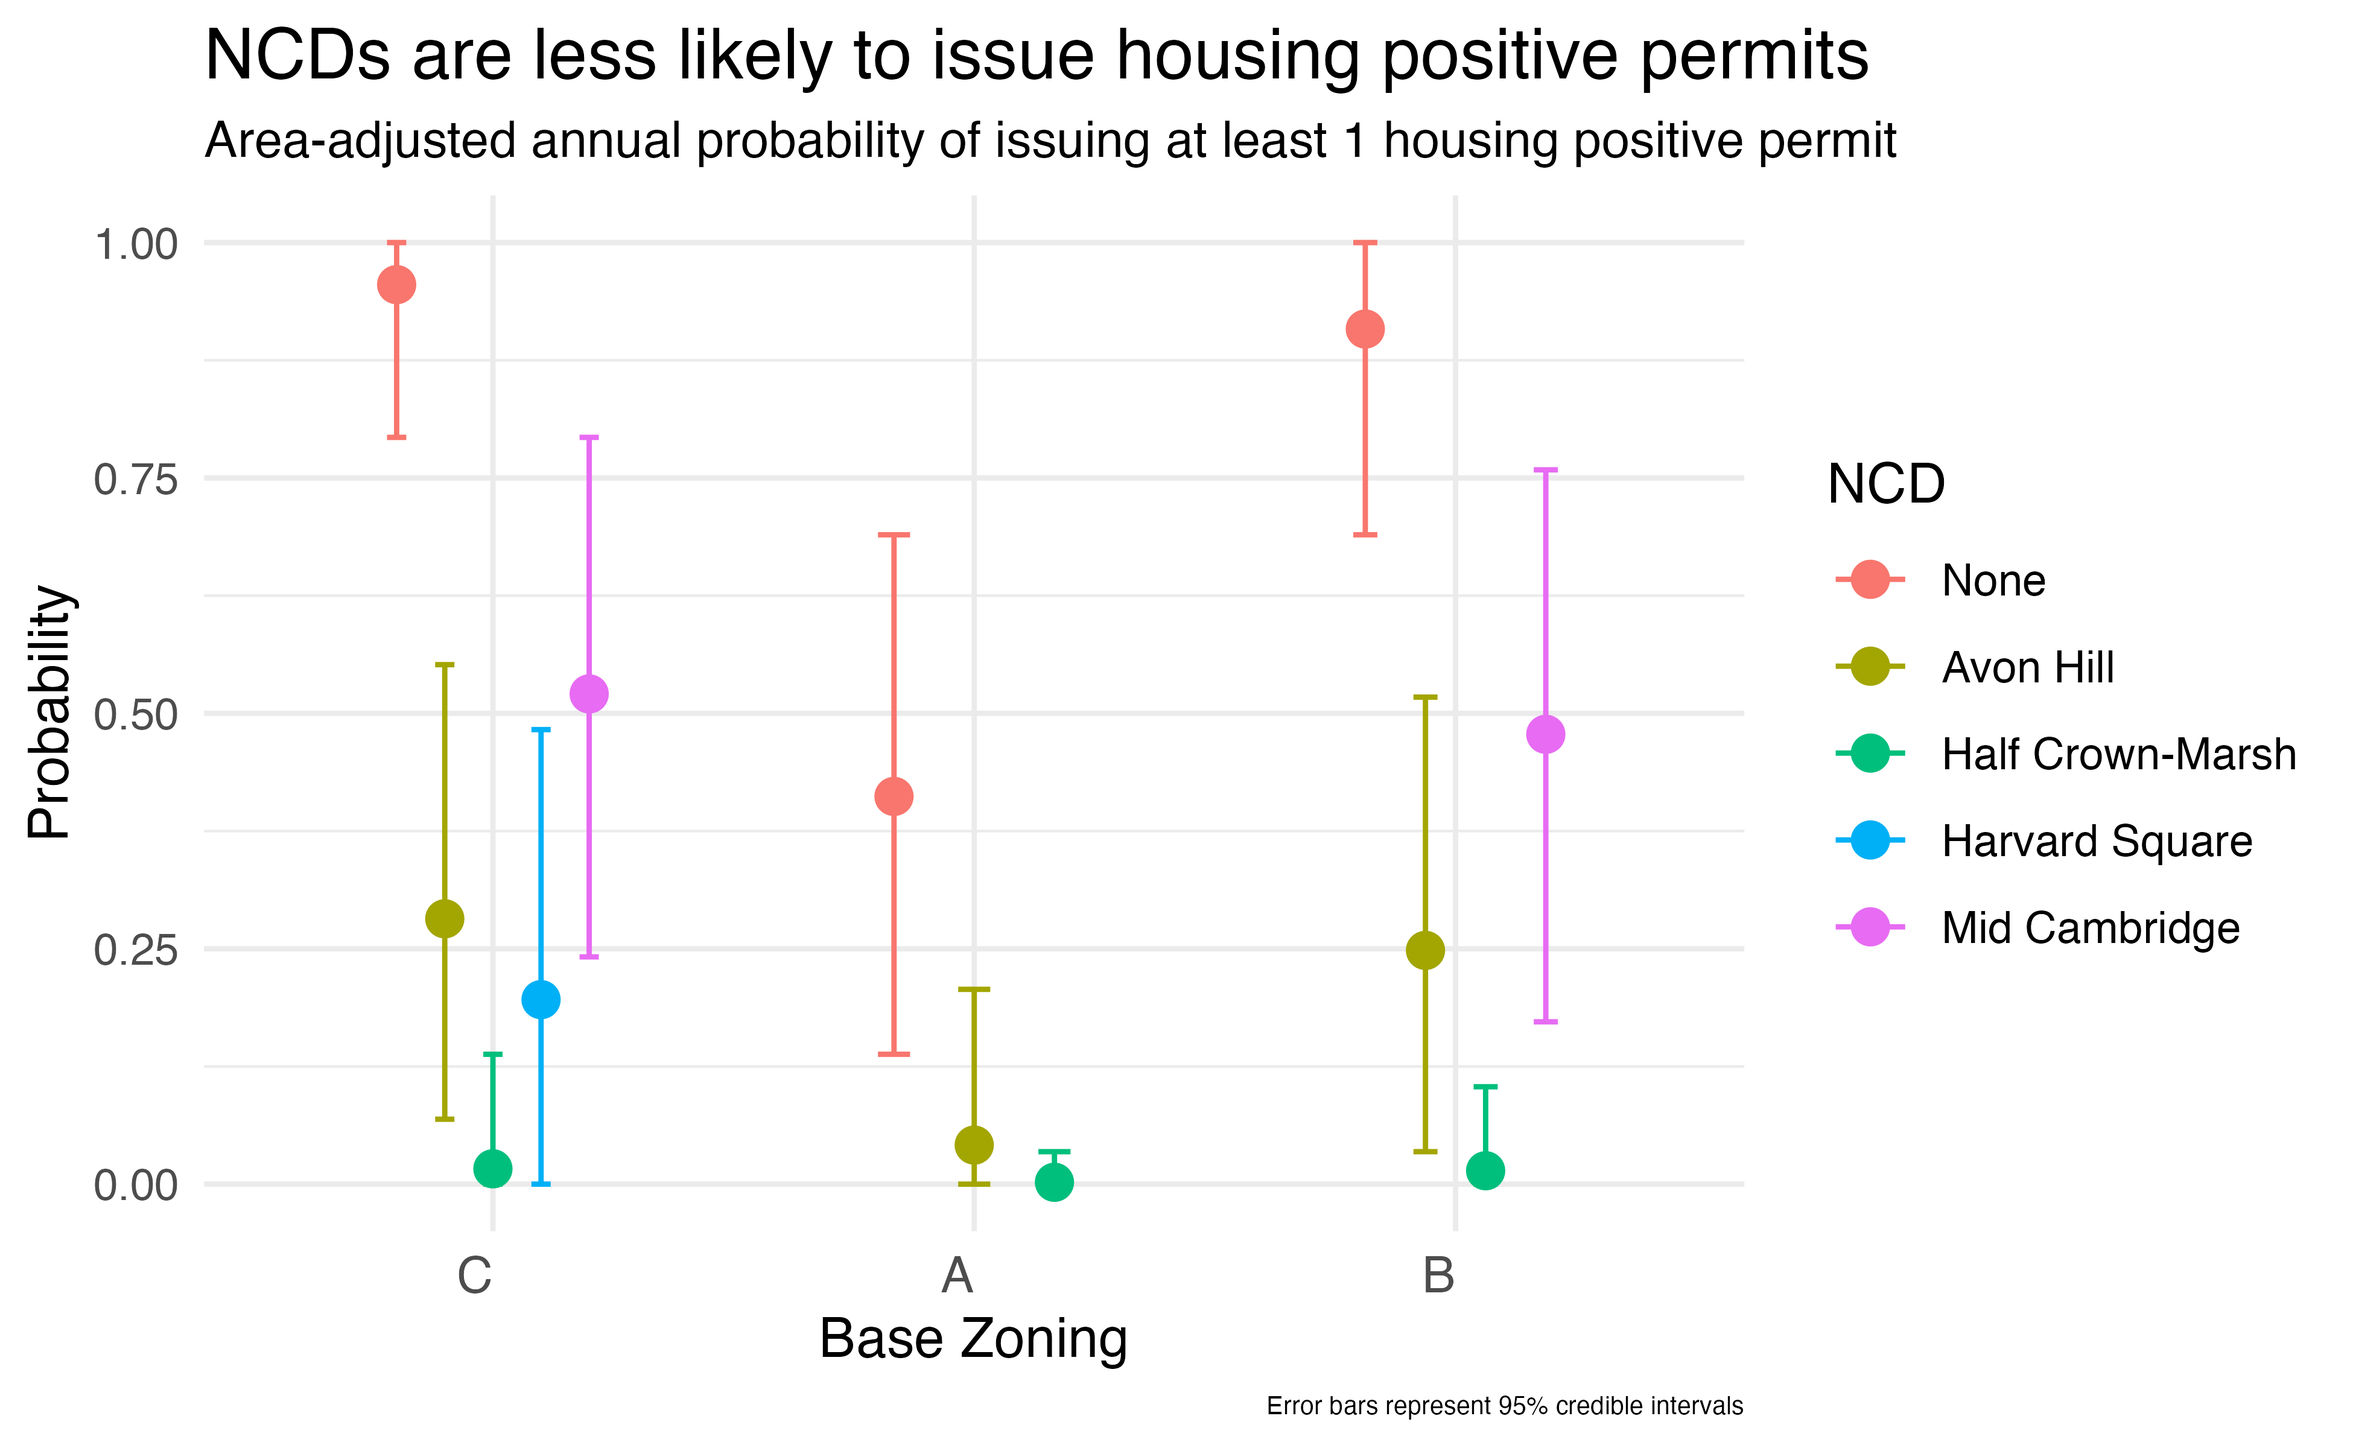
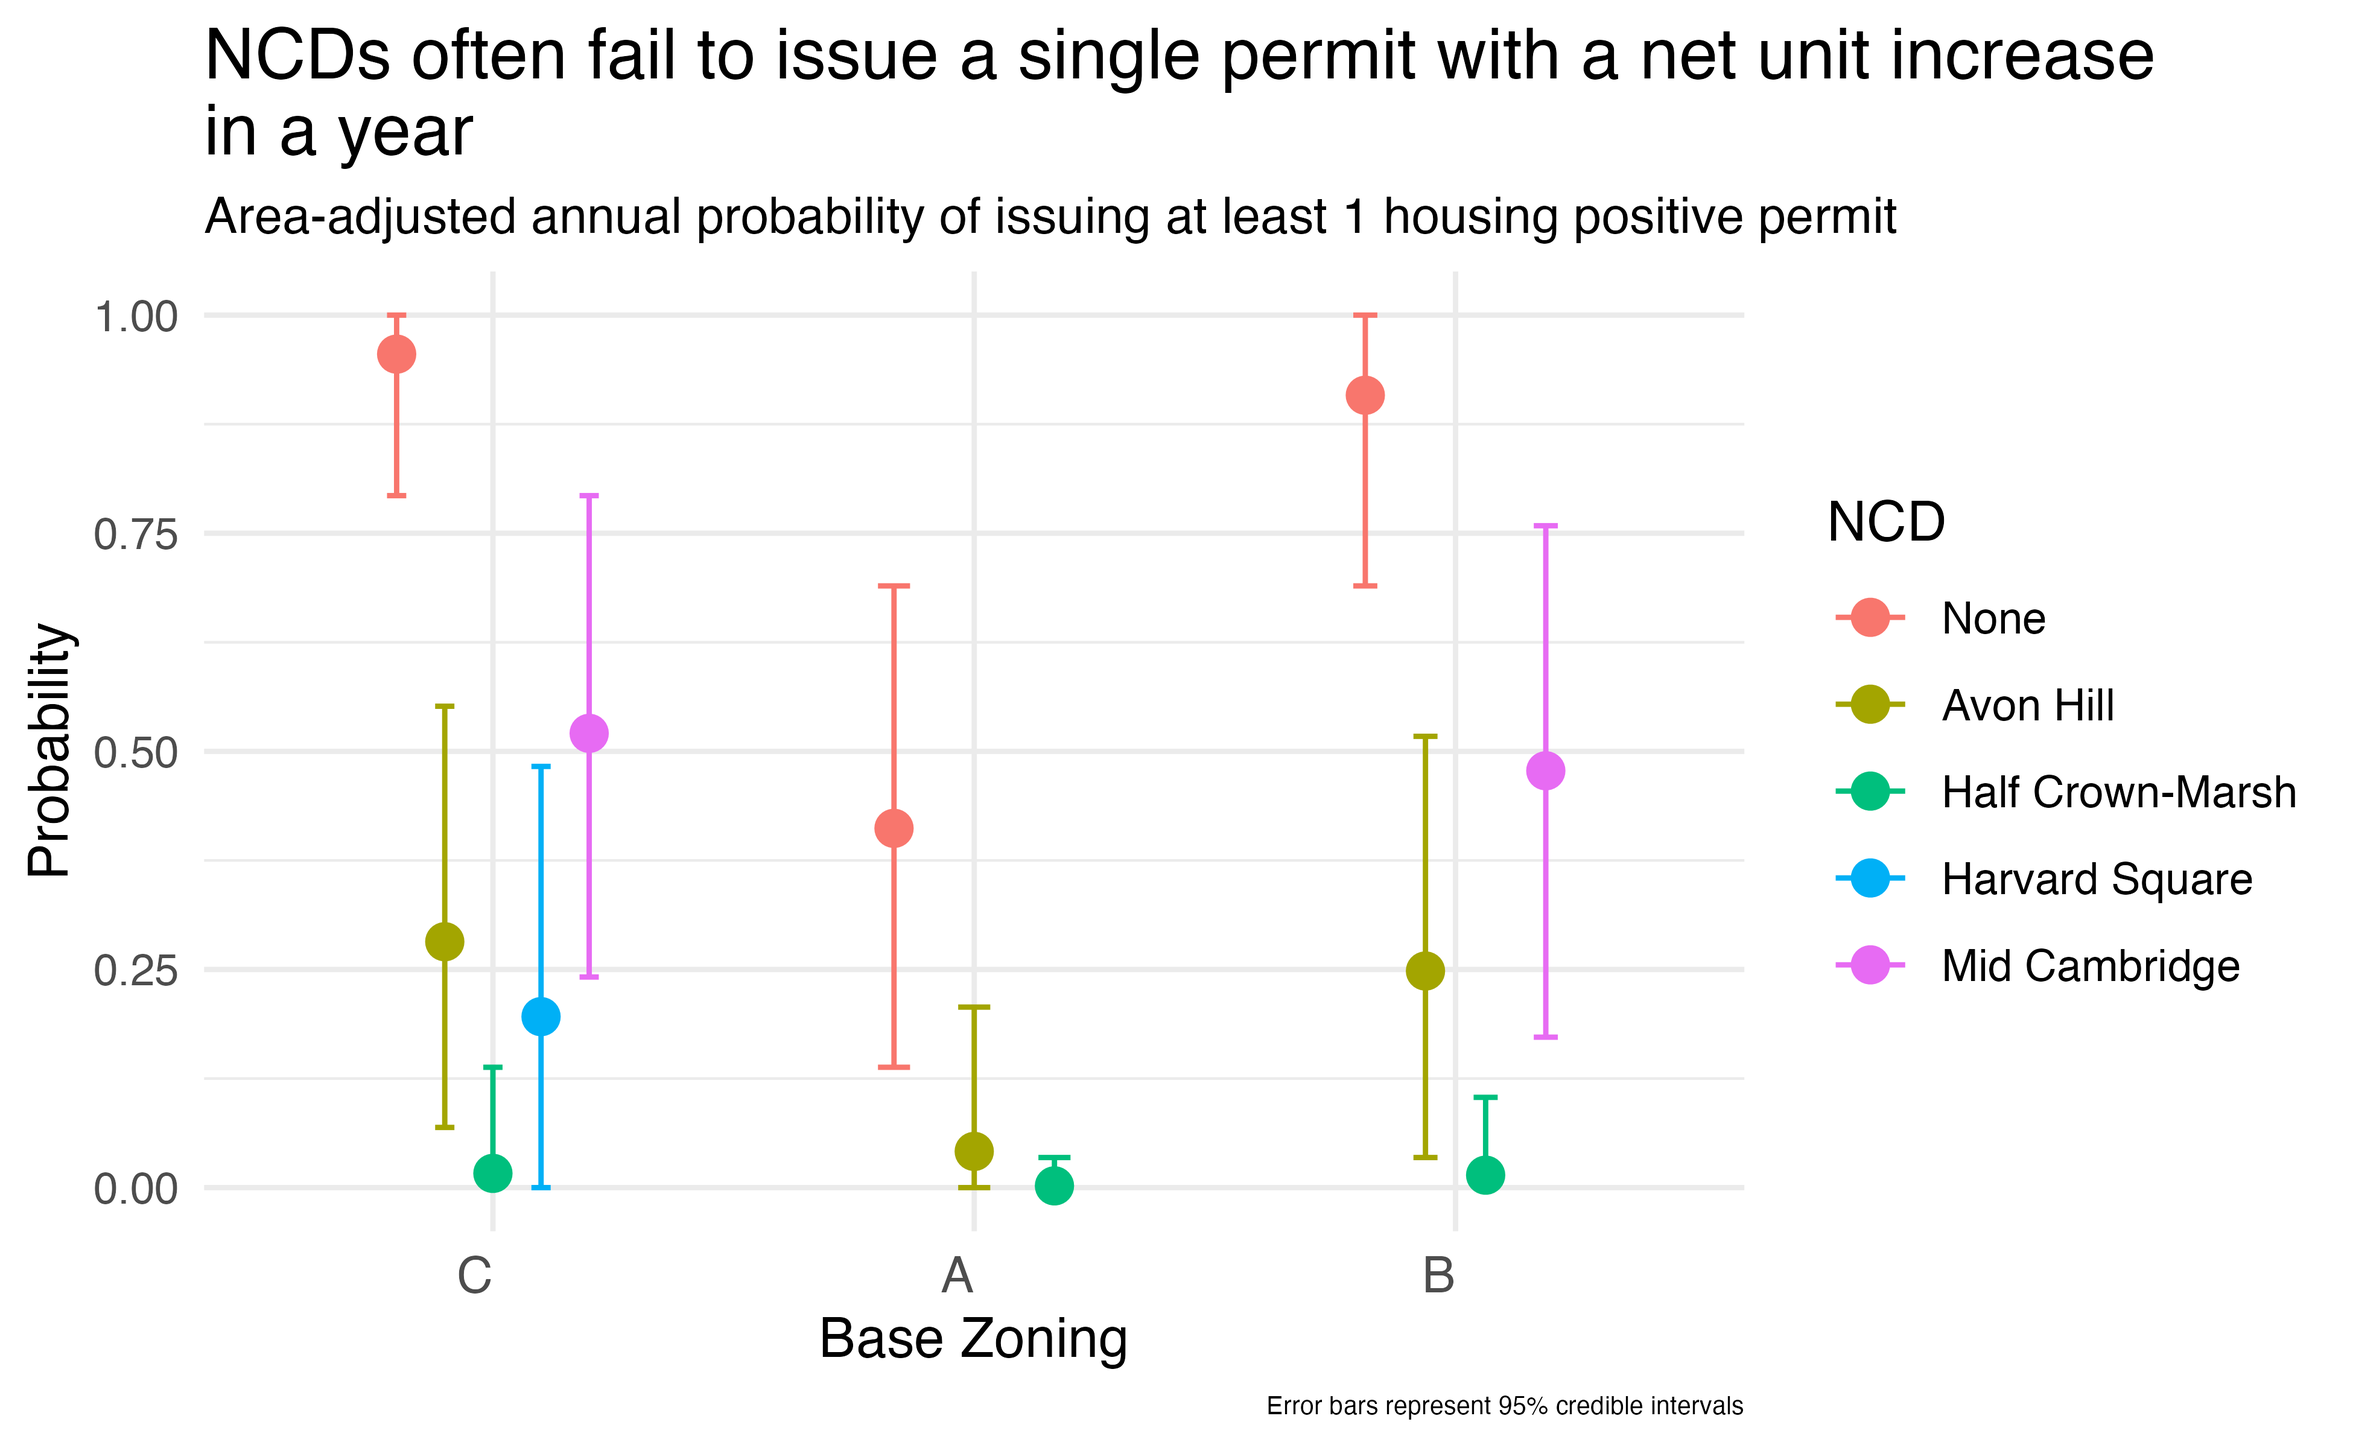
remove julia

diff --git a/_site/2025/03/30/ncd.html b/_site/2025/03/30/ncd.html
@@ -9,8 +9,8 @@
 <meta name="generator" content="Jekyll v3.10.0" />
 <meta property="og:title" content="Neighborhood Conservation Districts Suppress Housing in Cambridge, MA" />
 <meta property="og:locale" content="en_US" />
-<meta name="description" content="Cambridge is a small city immediately adjacent to Boston Massachusetts with one of the worst housing crises in the country. Despite this, the city has done remarkably little to address the problem. Inside the city’s “residential districts”, from 1996 to 2024, the city constructed a cumulative 1,848 housing units over 29 years, which amounts to 0.06 housing units per 100 residents per year. Notably, Cambridge has found a way to build most of its residences in non-residential districts. Of the total 14,216 net residences constructed from 1996, 12,368 of them were constructed in non-residential areas of the city. Annual housing production per sqkm is shown in Fig 1 below. Fig. 1 Housing units per square kilometer Cambridge’s residential areas, importantly, are not anywhere near capacity. These areas contain large numbers of detached 1-2 family housing units, some on estate sized lots that would not be out-of-place in the exurbs. The city has repeatedly found that there is adequate resources and infrastructure to build more housing in these areas. The question is not if there should be development but why there isn’t development in such a supply constrained market." />
-<meta property="og:description" content="Cambridge is a small city immediately adjacent to Boston Massachusetts with one of the worst housing crises in the country. Despite this, the city has done remarkably little to address the problem. Inside the city’s “residential districts”, from 1996 to 2024, the city constructed a cumulative 1,848 housing units over 29 years, which amounts to 0.06 housing units per 100 residents per year. Notably, Cambridge has found a way to build most of its residences in non-residential districts. Of the total 14,216 net residences constructed from 1996, 12,368 of them were constructed in non-residential areas of the city. Annual housing production per sqkm is shown in Fig 1 below. Fig. 1 Housing units per square kilometer Cambridge’s residential areas, importantly, are not anywhere near capacity. These areas contain large numbers of detached 1-2 family housing units, some on estate sized lots that would not be out-of-place in the exurbs. The city has repeatedly found that there is adequate resources and infrastructure to build more housing in these areas. The question is not if there should be development but why there isn’t development in such a supply constrained market." />
+<meta name="description" content="tl;dr" />
+<meta property="og:description" content="tl;dr" />
 <link rel="canonical" href="http://localhost:4000/2025/03/30/ncd" />
 <meta property="og:url" content="http://localhost:4000/2025/03/30/ncd" />
 <meta property="og:site_name" content="Dan Sprague" />
@@ -19,7 +19,7 @@
 <meta name="twitter:card" content="summary" />
 <meta property="twitter:title" content="Neighborhood Conservation Districts Suppress Housing in Cambridge, MA" />
 <script type="application/ld+json">
-{"@context":"https://schema.org","@type":"BlogPosting","dateModified":"2025-03-30T00:00:00-04:00","datePublished":"2025-03-30T00:00:00-04:00","description":"Cambridge is a small city immediately adjacent to Boston Massachusetts with one of the worst housing crises in the country. Despite this, the city has done remarkably little to address the problem. Inside the city’s “residential districts”, from 1996 to 2024, the city constructed a cumulative 1,848 housing units over 29 years, which amounts to 0.06 housing units per 100 residents per year. Notably, Cambridge has found a way to build most of its residences in non-residential districts. Of the total 14,216 net residences constructed from 1996, 12,368 of them were constructed in non-residential areas of the city. Annual housing production per sqkm is shown in Fig 1 below. Fig. 1 Housing units per square kilometer Cambridge’s residential areas, importantly, are not anywhere near capacity. These areas contain large numbers of detached 1-2 family housing units, some on estate sized lots that would not be out-of-place in the exurbs. The city has repeatedly found that there is adequate resources and infrastructure to build more housing in these areas. The question is not if there should be development but why there isn’t development in such a supply constrained market.","headline":"Neighborhood Conservation Districts Suppress Housing in Cambridge, MA","mainEntityOfPage":{"@type":"WebPage","@id":"http://localhost:4000/2025/03/30/ncd"},"url":"http://localhost:4000/2025/03/30/ncd"}</script>
+{"@context":"https://schema.org","@type":"BlogPosting","dateModified":"2025-03-30T00:00:00-04:00","datePublished":"2025-03-30T00:00:00-04:00","description":"tl;dr","headline":"Neighborhood Conservation Districts Suppress Housing in Cambridge, MA","mainEntityOfPage":{"@type":"WebPage","@id":"http://localhost:4000/2025/03/30/ncd"},"url":"http://localhost:4000/2025/03/30/ncd"}</script>
 <!-- End Jekyll SEO tag -->
 
 
@@ -202,13 +202,27 @@ MathJax.Hub.Queue(function() {
   </div>
   
   <div class="post-content">
-    <p><br /><br />
-Cambridge is a small city immediately adjacent to Boston Massachusetts with one of the worst housing crises in the country. Despite this, the city has done remarkably little to address the problem. Inside the city’s “residential districts”, from 1996 to 2024, the city constructed a <em>cumulative</em> 1,848 housing units over 29 years, which amounts to 0.06 housing units per 100 residents per year. Notably, Cambridge has found a way to build most of its residences in non-residential districts. Of the total 14,216 net residences constructed from 1996, 12,368 of them were constructed in non-residential areas of the city. Annual housing production per sqkm is shown in Fig 1 below.<br /><br /></p>
+    <hr />
+
+<h3 id="tldr">tl;dr</h3>
+
+<ol>
+  <li>Analyses were performed by controlling for area, base zoning, and neighborhood.</li>
+  <li>The Mid-Cambridge NCD issues ~50% fewer permits that are net housing unit increases per year than an equivalent Res C plot of land outside the NCD.</li>
+  <li>Half Crown-Marsh stands in a world of its own, having issued none in the 29 year dataset.</li>
+  <li>NCDs are hotspots for down-conversion projects, and with more housing losses than comparable plots of land outside the NCD.</li>
+  <li>Statistical analyses show that these effects are very unlikely to be due to random chance.</li>
+</ol>
+
+<hr />
+
+<p><br /><br />
+Cambridge is a small city immediately adjacent to Boston Massachusetts with one of the worst housing crises in the country. Despite this, the city has done remarkably little to address the problem. Inside the city’s residential districts, the city constructed a <em>cumulative</em> 1,848 housing units over 29 years from 1996 to 2024, which amounts to 0.06 housing units per 100 residents per year. Notably, Cambridge has found a way to build most of its residences in non-residential districts. Of the total 14,216 net residences constructed since 1996, 12,368 were constructed in non-residential areas of the city. Annual housing production per sqkm is shown in Fig 1 below.<br /><br /></p>
 <div style="float: left; margin-left: 0px; margin-bottom: 5px;">
   <img src="/assets/images/housing_area.jpg" alt="Housing per sqkm" width="400px" />
   <figcaption style="text-align: center; font-style: plain; font-size: 0.9em;">Fig. 1 Housing units per square kilometer</figcaption>
 </div>
-<p>Cambridge’s residential areas, importantly, are not anywhere near capacity. These areas contain large numbers of detached 1-2 family housing units, some on estate sized lots that would not be out-of-place in the exurbs. The city has repeatedly found that there is adequate resources and infrastructure to build more housing in these areas. The question is not if there should be development but why there isn’t development in such a supply constrained market.<br /><br /></p>
+<p>Cambridge’s residential areas, importantly, are not near capacity. These areas contain large numbers of detached 1-2 family housing units, some on estate sized lots that would not be out-of-place in the exurbs. The city has repeatedly found that there is adequate resources and infrastructure to build more housing in these areas. The question is not if there should be development but why there isn’t development in such a supply constrained market.<br /><br /></p>
 
 <p>For the better part of a century, Cambridge has made the construction of multi-family housing illegal. Where multi-family housing is technically legal, a byzantine labyrinth of rules and regulations ensures that their construction will not pencil out. Parking minimums (removed in 2023), set backs, floor-to-area ratios, environmental studies, shadow studies, and more all work together to ensure that where multifamily housing is legal, absolutely none will get built.<br /><br /></p>
 
@@ -270,19 +284,19 @@ Cambridge is a small city immediately adjacent to Boston Massachusetts with one 
 <p>In spite of this, NCDs have the power to issue binding decisions that can prevent permit issuance for a project with almost no oversight from the city council. Given that NCDs are forbidden from flouting the base zoning(s) of the district they reside within, if CHC’s claim is true that they issue approval 96.9% of applications then their should not be statistically meaningful differences in housing permits after controlling for neighborhood, base zoning(s), and area.
 <br /><br /></p>
 
-<p>I examined the citywide dataset of housing starts and found statistically significant evidence that NCDs act as an independent suppressor on housing in Cambridge. The raw data says enough on its own: housing production in Avon Hill, Half Crown-Marsh, and Harvard Square has been <em>negative</em> over the past 29 years. In the same time span, the Mid Cambridge NCD has managed to add 3 housing units inside an area that is nearly a square kilometer (Table 1). <br /><br /></p>
+<p>To determine if this is true, I examined the citywide dataset of housing starts and found statistically significant evidence that NCDs act as an independent suppressor on housing in Cambridge. The raw data says enough on its own: housing production in Avon Hill, Half Crown-Marsh, and Harvard Square has been <em>negative</em> over the past 29 years. In the same time span, the Mid Cambridge NCD has managed to add 3 housing units inside an area that is nearly a square kilometer (Table 1). <br /><br /></p>
 
 <p>This is an important problem because the city recently upzoned all A and B regions of the city to C. If NCDs suppress housing, this will diminish the impact of the law.<br /><br /></p>
 
-<h4 id="ncds-issue-fewer-housing-positive-permits">NCDs Issue Fewer Housing Positive Permits</h4>
+<h4 id="ncds-issue-fewer-housing-positive-permits-than-equal-area-equal-zoned-regions">NCDs Issue Fewer Housing Positive Permits Than Equal Area Equal Zoned Regions</h4>
 <p>One of the more remarkable aspects of the housing starts dataset (outlined more in the Methods section below) is that Cambridge simply builds almost no housing, inside or outside of NCDs. This makes separating the effect of NCDs from base zoning a challenging task, particularly when considering NCDs that are a fraction of a square kilometer. The relevant statistical question, therefore, is pretty straightfoward: How many permits for how many units would be issued per sqkm per year in Res C, and does the observed data suggest a difference for areas inside NCDs?<br /><br /></p>
 <div style="float: left; margin-right: 15px; margin-bottom: 15px; width: 500px;">
   <img src="/assets/images/permits.png" alt="Permit probability by zone" width="100%" />
-  <figcaption style="text-align: center; font-size: 0.9em;">Fig. 3 Probability of issuing at least one housing-positive permit annually, by zoning type and NCD status. Adjusted for area.</figcaption>
+  <figcaption style="text-align: center; font-size: 0.9em;">Fig. 3 Probability of issuing at least one housing-increase permit annually, by zoning type and NCD status. Adjusted for area.</figcaption>
 </div>
 <p>Interestingly, <em>when</em> there is a housing positive development approved inside an NCD there is no statistical evidence that the number of units added is different from an equally zoned region outside the NCD (mean NCD fold change = 1.03 +/- 0.52). However, this is where the positives end for NCDs.<br /><br /></p>
 
-<p>Next, I examined the number of years within the dataset duration (29 years), for which their was <em>at least 1</em> (yes just 1) housing positive permit issued. The results are striking: In nearly all cases, NCDs have substantially fewer years with any housing positive permits issued (Figure 3). Mid-Cambridge, the largest NCD with the most available data, gives the clearest picture of the effect that an NCD has when nested inside a predominantly Res C zoning district. The Mid-Cambridge NCD issues ~50% fewer housing positive permits per year than an equivalent Res C plot of land outside the NCD. Half Crown-Marsh stands in a world of its own, issuing essentially nothing.<br /><br /></p>
+<p>Next, I examined the number of years for which their was <em>at least 1</em> (yes just 1) net housing increase permit issued. The results are striking: In nearly all cases, NCDs have substantially fewer years with <em>any</em> housing positive permits issued (Figure 3). Mid-Cambridge, the largest NCD with the most available data, gives the clearest picture of the effect that an NCD has when nested inside a predominantly Res C zoning district. The Mid-Cambridge NCD issues ~50% fewer housing positive permits per year than an equivalent Res C plot of land outside the NCD. Half Crown-Marsh stands in a world of its own, issuing essentially nothing in the 29 year observation period.<br /><br /></p>
 
 <h4 id="ncds-are-downconversion-hotspots">NCDs Are Downconversion Hotspots</h4>
 
